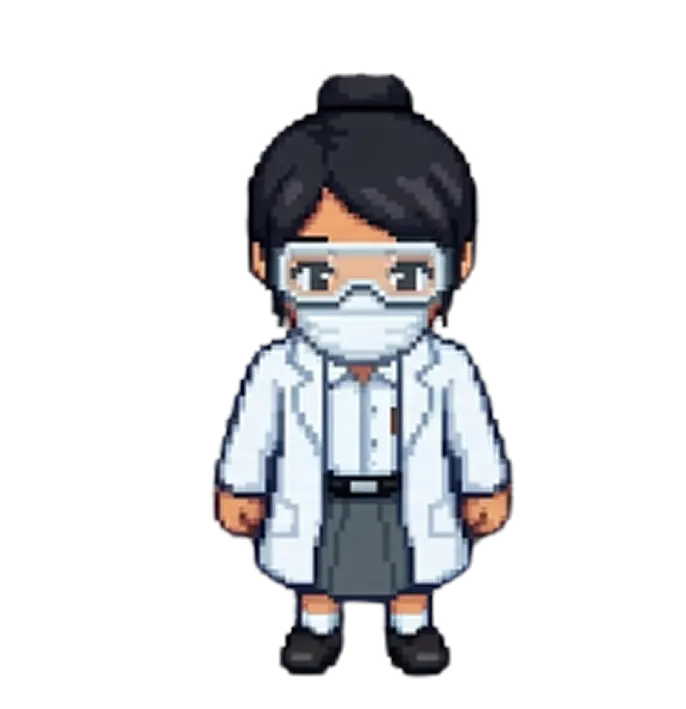
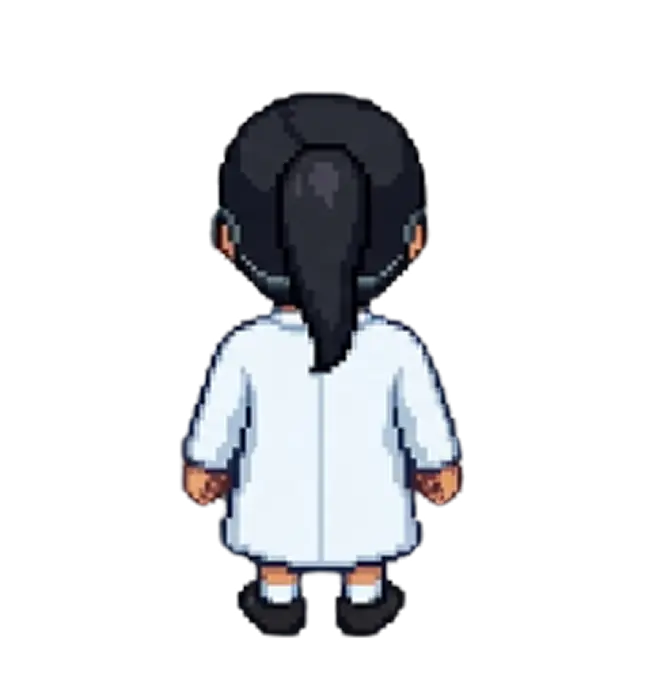
feat: add wokspace zone trigger

Changed region(s): [[0.2773, 0.0933, 0.7704, 0.9644]]

diff --git a/Alchemist-FE/src/core/game/scenes/MainScene.ts b/Alchemist-FE/src/core/game/scenes/MainScene.ts
@@ -1,16 +1,12 @@
 import Phaser from 'phaser';
-
-interface WASDKeys {
-  W: Phaser.Input.Keyboard.Key;
-  A: Phaser.Input.Keyboard.Key;
-  S: Phaser.Input.Keyboard.Key;
-  D: Phaser.Input.Keyboard.Key;
-}
+import Player from '../objects/Player';
 
 export default class MainScene extends Phaser.Scene {
-  private player!: Phaser.Types.Physics.Arcade.SpriteWithDynamicBody;
-  private cursors!: Phaser.Types.Input.Keyboard.CursorKeys;
-  private wasdKeys!: WASDKeys;
+  private interactKey!: Phaser.Input.Keyboard.Key;
+  private interactPrompt!: Phaser.GameObjects.Text;
+  private activeWorkspaceId: string | null = null;
+  private isNearWorkspace: boolean = false;
+  private player!: Player;
 
   constructor() {
     super('MainScene');
@@ -22,7 +18,7 @@ export default class MainScene extends Phaser.Scene {
 
     // Character
     this.load.image('player_front', '/player/apd/apd_front.webp');
-    this.load.image('player_back', '/player/apd/apd_back.webp');
+    this.load.image('player_back', '/player/apd/apd_backward.webp');
     this.load.image('player_right', '/player/apd/apd_right.webp');
     this.load.image('player_left', '/player/apd/apd_left.webp');
   }
@@ -36,22 +32,8 @@ export default class MainScene extends Phaser.Scene {
     const scaleY = height / bg.height;
     bg.setScale(scaleY);
 
-    this.player = this.physics.add.sprite(222, 320, 'player_front');
-    this.player.setDisplaySize(250, 300);
-    this.player.body.setSize(250, 350);
-    this.player.body.setOffset(250, 330);
-    this.player.setCollideWorldBounds(true);
-
-    if (this.input.keyboard) {
-      this.cursors = this.input.keyboard.createCursorKeys();
-
-      this.wasdKeys = this.input.keyboard.addKeys({
-        W: Phaser.Input.Keyboard.KeyCodes.W,
-        A: Phaser.Input.Keyboard.KeyCodes.A,
-        S: Phaser.Input.Keyboard.KeyCodes.S,
-        D: Phaser.Input.Keyboard.KeyCodes.D,
-      }) as WASDKeys;
-    }
+    // Instansiasi player menggunakan class baru
+    this.player = new Player(this, 222, 320);
 
     const obstacles = this.physics.add.staticGroup();
 
@@ -96,69 +78,69 @@ export default class MainScene extends Phaser.Scene {
     this.physics.add.existing(analyzeTable, true);
     obstacles.add(analyzeTable);
 
-    // const chair = this.add.zone(911, 784, 120, 120);
-    // this.physics.add.existing(chair, true);
-    // obstacles.add(chair);
-
     this.physics.add.collider(this.player, obstacles);
-    // Buat visual kotak yang terlihat jelas (berwarna hijau transparan)
-    // const testBox = this.add.rectangle(747, 587, 100, 100, 0x00ff00, 0.4);
 
-    // Aktifkan sistem physics statis
-    // this.physics.add.existing(testBox, true);
+    if (this.input.keyboard) {
+      this.interactKey = this.input.keyboard.addKey(Phaser.Input.Keyboard.KeyCodes.E);
+    }
 
-    // Buat kotak bisa digeser dengan mouse
-    // testBox.setInteractive({ draggable: true });
+    this.interactPrompt = this.add.text(width / 2, height / 2, 'Tekan E untuk mulai eksperimen', {
+      fontFamily: 'Arial',
+      fontSize: '24px',
+      color: '#ffffff',
+      backgroundColor: '#000000',
+      padding: { x: 10, y: 5 },
+    });
 
-    // this.input.on(
-    //   'drag',
-    //   (
-    //     pointer: Phaser.Input.Pointer,
-    //     gameObject: Phaser.GameObjects.GameObject,
-    //     dragX: number,
-    //     dragY: number
-    //   ) => {
-    //     if (gameObject instanceof Phaser.GameObjects.Rectangle) {
-    //       gameObject.x = dragX;
-    //       gameObject.y = dragY;
+    this.interactPrompt.setOrigin(0.5);
+    this.interactPrompt.setScrollFactor(0);
+    this.interactPrompt.setVisible(false);
 
-    //       // Perbarui posisi physics body agar pembatas ikut bergeser saat digeret
-    //       if (gameObject.body) {
-    //         (gameObject.body as Phaser.Physics.Arcade.StaticBody).updateFromGameObject();
-    //       }
+    const workspaceData = [
+      { id: 'buret_station', name: 'Meja Titrasi Buret', x: 745, y: 575, w: 650, h: 260 },
+      { id: 'ph_meter_station', name: 'Meja Pengukuran pH', x: 200, y: 800, w: 150, h: 150 },
+      { id: 'neraca_analitik', name: 'Meja Timbangan Digital', x: 747, y: 980, w: 200, h: 150 },
+      { id: 'apd', name: 'Alat Pelindung Diri', x: 430, y: 200, w: 220, h: 200 },
+      { id: 'wastafel_cuci', name: 'Wastafel Pembilasan', x: 1374, y: 778, w: 220, h: 320 },
+    ];
 
-    //       // Cetak posisi final di konsol untuk disalin ke kode asli
-    //       console.log(`Posisi Baru Kotak -> X: ${Math.round(dragX)}, Y: ${Math.round(dragY)}`);
-    //     }
-    //   }
-    // );
+    workspaceData.forEach((data) => {
+      const zone = this.add.zone(data.x, data.y, data.w, data.h);
+      this.physics.add.existing(zone, true);
 
-    // Masukkan ke grup obstacles Anda agar bisa ditabrak player saat uji coba pas atau tidaknya
-    // obstacles.add(testBox);
+      this.physics.add.overlap(
+        this.player,
+        zone,
+        () => {
+          this.activeWorkspaceId = data.id;
+
+          this.interactPrompt.setText(`Tekan E untuk menggunakan ${data.name}`);
+          this.interactPrompt.setVisible(true);
+        },
+        undefined,
+        this
+      );
+    });
   }
 
   update(): void {
-    if (!this.player || !this.cursors) return;
+    if (!this.player) return;
 
-    const speed = 250;
-    this.player.setVelocity(0);
+    // Jalankan loop update milik player untuk mendeteksi pergerakan tombol
+    this.player.update();
 
-    if (this.cursors.left?.isDown || this.wasdKeys.A.isDown) {
-      // Bergerak Kiri
-      this.player.setVelocityX(-speed);
-      this.player.setTexture('player_left');
-    } else if (this.cursors.right?.isDown || this.wasdKeys.D.isDown) {
-      // Bergerak Kanan
-      this.player.setVelocityX(speed);
-      this.player.setTexture('player_right');
-    } else if (this.cursors.up?.isDown || this.wasdKeys.W.isDown) {
-      // Bergerak Atas
-      this.player.setVelocityY(-speed);
-      this.player.setTexture('player_back');
-    } else if (this.cursors.down?.isDown || this.wasdKeys.S.isDown) {
-      // Bergerak Bawah
-      this.player.setVelocityY(speed);
-      this.player.setTexture('player_front');
+    if (this.activeWorkspaceId !== null) {
+      if (Phaser.Input.Keyboard.JustDown(this.interactKey)) {
+        this.handleTransitionWorkspace(this.activeWorkspaceId);
+      }
+
+      this.activeWorkspaceId = null;
+    } else {
+      this.interactPrompt.setVisible(false);
     }
+  }
+
+  private handleTransitionWorkspace(workspaceId: string): void {
+    console.log(`Transisi ke WORKSPACE ${workspaceId}`);
   }
 }

diff --git a/Alchemist-FE/src/core/game/objects/Player.ts b/Alchemist-FE/src/core/game/objects/Player.ts
@@ -1,0 +1,57 @@
+import Phaser from 'phaser';
+
+interface WASDKeys {
+  W: Phaser.Input.Keyboard.Key;
+  A: Phaser.Input.Keyboard.Key;
+  S: Phaser.Input.Keyboard.Key;
+  D: Phaser.Input.Keyboard.Key;
+}
+
+export default class Player extends Phaser.Physics.Arcade.Sprite {
+  private cursors!: Phaser.Types.Input.Keyboard.CursorKeys;
+  private wasdKeys!: WASDKeys;
+  private moveSpeed: number = 250;
+
+  constructor(scene: Phaser.Scene, x: number, y: number) {
+    super(scene, x, y, 'player_back');
+
+    scene.add.existing(this);
+    scene.physics.add.existing(this);
+
+    this.setDisplaySize(270, 300);
+    const body = this.body as Phaser.Physics.Arcade.Body;
+    body.setSize(250, 350);
+    body.setOffset(250, 330);
+    this.setCollideWorldBounds(true);
+
+    if (scene.input.keyboard) {
+      this.cursors = scene.input.keyboard.createCursorKeys();
+      this.wasdKeys = scene.input.keyboard.addKeys({
+        W: Phaser.Input.Keyboard.KeyCodes.W,
+        A: Phaser.Input.Keyboard.KeyCodes.A,
+        S: Phaser.Input.Keyboard.KeyCodes.S,
+        D: Phaser.Input.Keyboard.KeyCodes.D,
+      }) as WASDKeys;
+    }
+  }
+
+  update(): void {
+    if (!this.cursors || !this.wasdKeys) return;
+
+    this.setVelocity(0);
+
+    if (this.cursors.left?.isDown || this.wasdKeys.A.isDown) {
+      this.setVelocityX(-this.moveSpeed);
+      this.setTexture('player_left');
+    } else if (this.cursors.right?.isDown || this.wasdKeys.D.isDown) {
+      this.setVelocityX(this.moveSpeed);
+      this.setTexture('player_right');
+    } else if (this.cursors.up?.isDown || this.wasdKeys.W.isDown) {
+      this.setVelocityY(-this.moveSpeed);
+      this.setTexture('player_front');
+    } else if (this.cursors.down?.isDown || this.wasdKeys.S.isDown) {
+      this.setVelocityY(this.moveSpeed);
+      this.setTexture('player_back');
+    }
+  }
+}

diff --git a/Alchemist-FE/src/core/game/scenes/workspaceScene/DisposalScene.ts b/Alchemist-FE/src/core/game/scenes/workspaceScene/DisposalScene.ts
@@ -1,0 +1,7 @@
+// export default class DisposalScene extends Phaser.Scene {
+//   private targetStation!: string;
+
+//   constructor() {
+//     super('DisposalScene');
+//   }
+// }